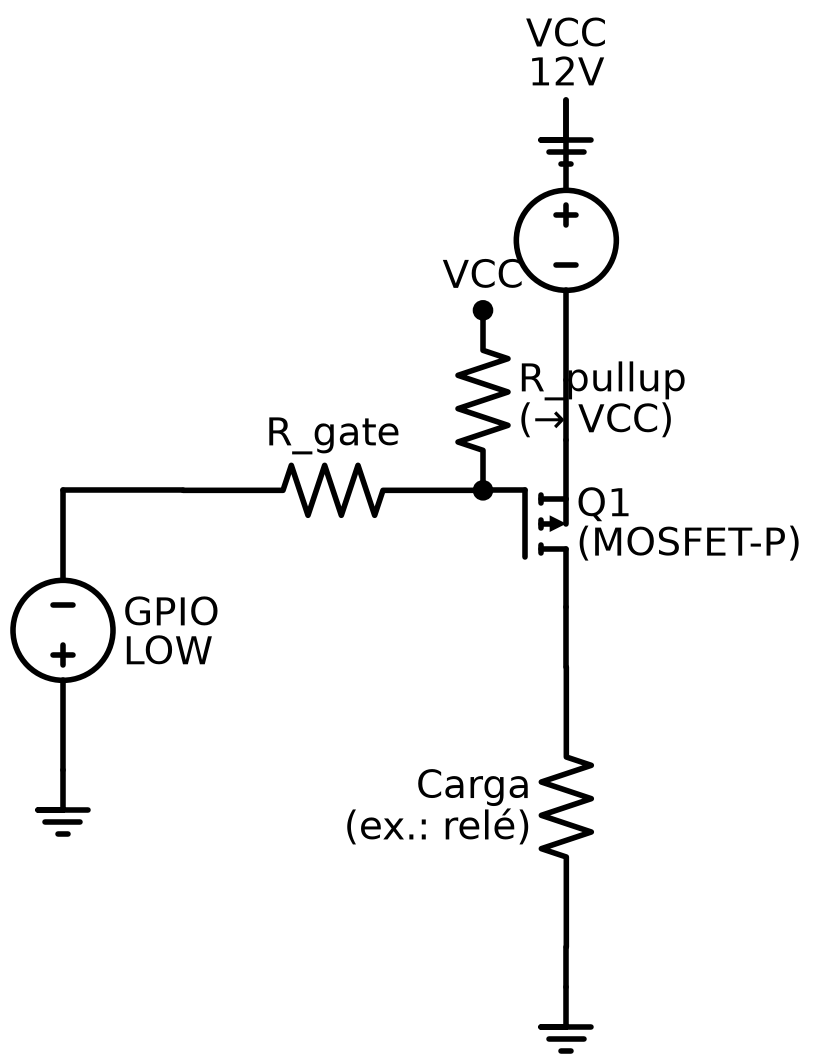
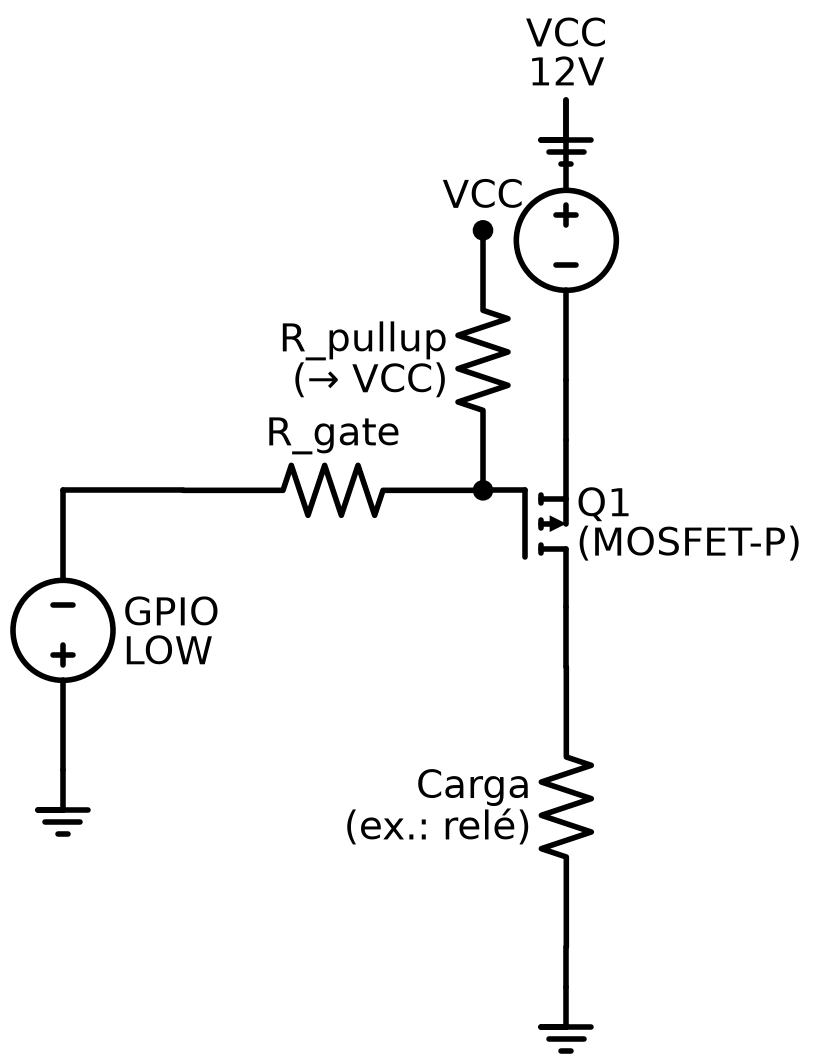
fix(slides): corrigir colisao de rotulo e reduzir altura de imagem (Saida #38, MOSFET-P)
- Remover loc="bottom" no label R_pullup e aumentar resistor de 1.8 para 2.6
  para evitar colisao com labels "VCC" (topo) e "R_gate"
- Reduzir altura da imagem de h:330 para h:260 no slide para evitar overflow
  do diagrama na borda inferior (GND da carga)

Claude-Session: https://claude.ai/code/session_01RkkRkeJJLgrRawW8cqUqk3

Changed region(s): [[0.3358, 0.1551, 0.8547, 0.4342]]

diff --git a/scripts/diagramas/mosfet_p_chave_high_side.py b/scripts/diagramas/mosfet_p_chave_high_side.py
@@ -39,7 +39,7 @@ with schemdraw.Drawing(show=False) as d:
     d.add(elm.SourceV().down().label("GPIO\nLOW", loc="bottom"))
     d.add(elm.Ground())
 
-    d.add(elm.Resistor().at(gate_node.center).up().length(1.8).label("R_pullup\n(→ VCC)", loc="bottom"))
+    d.add(elm.Resistor().at(gate_node.center).up().length(2.6).label("R_pullup\n(→ VCC)"))
     d.add(elm.Dot().label("VCC", loc="top"))
 
     d.save(str(OUT_DIR / f"{NAME}.svg"))

diff --git a/slides/gpio_saida_leds.md b/slides/gpio_saida_leds.md
@@ -581,7 +581,7 @@ VCC no gate garante que fique desligada em estado indefinido/flutuante
 (ex.: durante o boot) — mesma função de segurança que o pull-down cumpre
 no MOSFET-N.
 
-![h:330](../images/mosfet_p_chave_high_side.svg)
+![h:260](../images/mosfet_p_chave_high_side.svg)
 
 <!--
 Frame 4/4. Diagrama 7.
